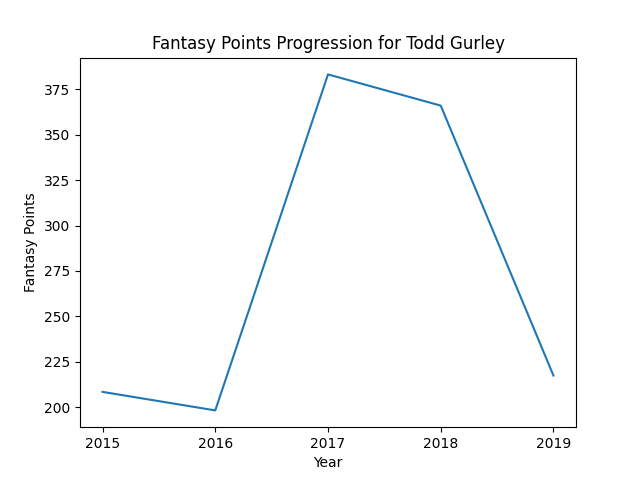
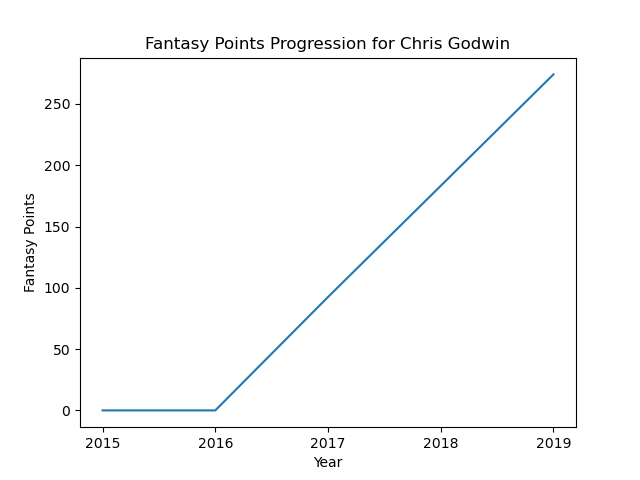
commented out headline code because that's not working

diff --git a/src/App.js b/src/App.js
@@ -257,9 +257,9 @@ class App extends React.Component {
 
   handleSelect() {
     this.setState({button_pressed: true});
-    //this.update_graphs();
+    this.update_graphs();
     this.get_player_data();
-    this.get_headlines();
+    //this.get_headlines();
   }
 
   handleClear() {
@@ -297,13 +297,15 @@ class App extends React.Component {
             </div>
           </div>
           <hr/>
-          <div className = "row mb-2">
-            {this.state.button_pressed &&
-              <Headlines 
-                state = {this.state}
-              />
-            }
-          </div>          
+          {/*
+            <div className = "row mb-2">
+              {this.state.button_pressed &&
+                <Headlines 
+                  state = {this.state}
+                />
+              }
+            </div>
+          */}
           <div className = "row mb-2">
             {this.state.button_pressed &&
               <Images 
